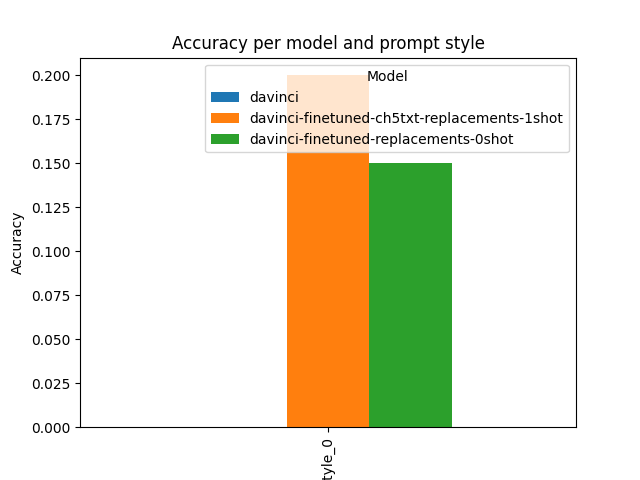
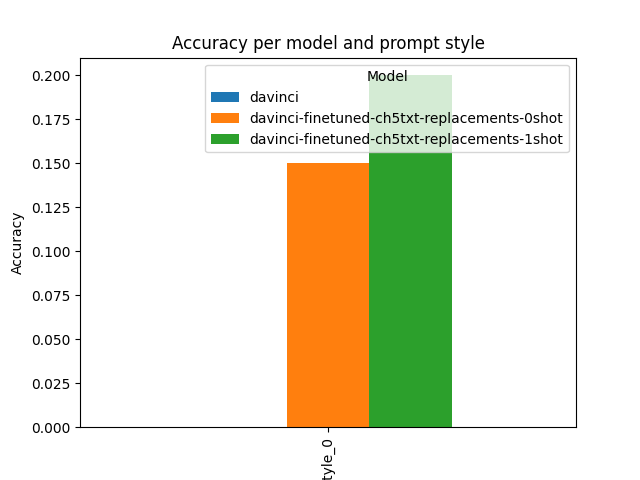
generating more results

Changed region(s): [[0.4375, 0.1562, 0.875, 0.3438], [0.8125, 0.2188, 0.875, 0.25]]

diff --git a/eval-model-pt3/json_to_csv.py b/eval-model-pt3/json_to_csv.py
@@ -47,7 +47,7 @@ def create_pivot_table(df, index, columns, values):
 
 
 # iterate through all the files in results folder
-directory = 'results-capV'
+directory = 'results-capV-updated'
 data = []
 for filename in os.listdir(directory):
     filePath = os.path.join(directory, filename)
@@ -69,7 +69,7 @@ df = pd.DataFrame(data, columns=["model", "chapter", "style", "quiz_type", "ques
 df['chapter'] = df['chapter'].str.split('_').str[1].map(roman_to_decimal)
 print(df)
 # pivoting to make specific tables
-output_directory = "charts-graphs-ch5/"
+output_directory = "charts-ch5-0-1-shot/"
 # model chapter table
 pivot_df_model_chapter = create_pivot_table(df, 'model', 'chapter', 'accuracy')
 pivot_df_model_chapter.to_csv(output_directory + 'results-model-chapter.csv')
@@ -100,4 +100,5 @@ pivot_df_shot_chapter = create_pivot_table(df, 'model', 'shot', 'accuracy')
 pivot_df_shot_chapter.to_csv(output_directory + 'results-shot-chapter.csv')
 pivot_df_shot_chapter.T.plot(kind='bar').set(xlabel='Shot', ylabel='Accuracy', title='Accuracy per model and shot')
 plt.legend(title='Model', loc='upper right')
-plt.savefig(output_directory + 'model_chap.png')
+plt.tight_layout()
+plt.savefig(output_directory + 'model_shot.png')
